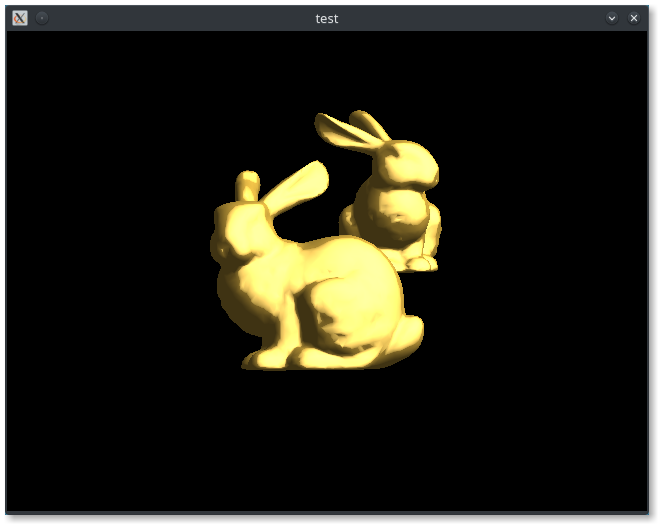
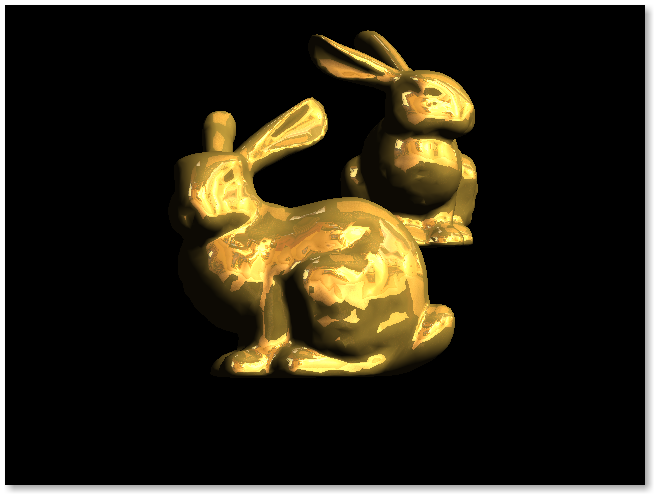
gold.png

Changed region(s): [[0.0, 0.0, 1.0, 1.0]]

diff --git a/README.md b/README.md
@@ -40,7 +40,7 @@ Load files: `sbcl --load triangle.lisp`
 * `gold.lisp`
   - material
   - cube map
-  - <img src="img/gold.mp4" width=200/>
+  - <img src="img/gold.png" width=200/>
 
 Acknowledgement
 ---------------
